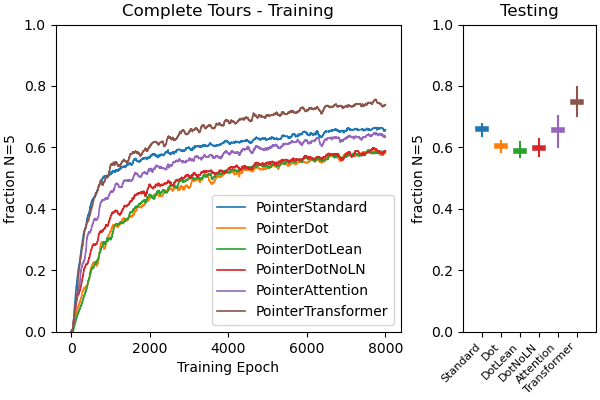
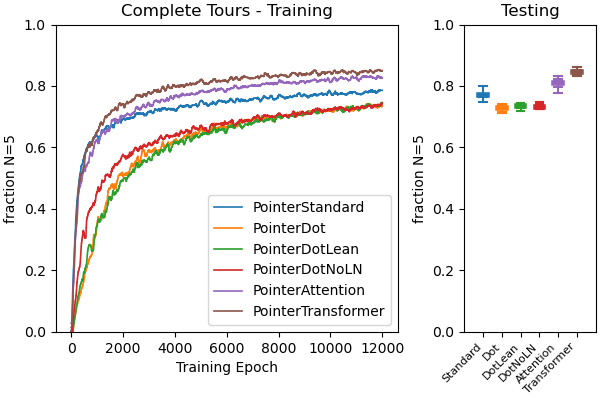
New SL data and updated plots

diff --git a/experiments/ptrArchComp_TSP_SL.py b/experiments/ptrArchComp_TSP_SL.py
@@ -230,13 +230,14 @@ def plotResults(results, args):
     for idx, name in enumerate(POINTER_METHODS):
         mnTestReward = torch.mean(results['testLoss'][:,idx], dim=0)
         ax[1].plot(get_x(idx), [mnTestReward.mean(), mnTestReward.mean()], color=cmap(idx), lw=4, label=name)
+        for mtr in mnTestReward:
+            ax[1].plot(get_x(idx), [mtr, mtr], color=cmap(idx), lw=1.5)
         ax[1].plot([idx,idx], [mnTestReward.min(), mnTestReward.max()], color=cmap(idx), lw=1.5)
     ax[1].set_xticks(range(len(POINTER_METHODS)))
     ax[1].set_xticklabels([pmethod[7:] for pmethod in POINTER_METHODS], rotation=45, ha='right', fontsize=8)
     ax[1].set_ylabel(f'Loss N={numRuns}')
     ax[1].set_title('Test Performance')
     ax[1].set_xlim(-1, len(POINTER_METHODS))
-    ax[1].set_ylim(0, 0.8)
 
     if not(args.nosave):
         plt.savefig(str(figsPath/getFileName()))
@@ -260,6 +261,8 @@ def plotResults(results, args):
     for idx, name in enumerate(POINTER_METHODS):
         mnTestComplete = torch.mean(results['testTourComplete'][:,idx], dim=0)
         ax[1].plot(get_x(idx), [mnTestComplete.mean(), mnTestComplete.mean()], color=cmap(idx), lw=4, label=name)
+        for mtc in mnTestComplete:
+            ax[1].plot(get_x(idx), [mtc, mtc], color=cmap(idx), lw=1.5)
         ax[1].plot([idx,idx], [mnTestComplete.min(), mnTestComplete.max()], color=cmap(idx), lw=1.5)
     ax[1].set_xticks(range(len(POINTER_METHODS)))
     ax[1].set_xticklabels([pmethod[7:] for pmethod in POINTER_METHODS], rotation=45, ha='right', fontsize=8)
@@ -294,6 +297,8 @@ def plotResults(results, args):
     for idx, name in enumerate(POINTER_METHODS):
         mnTestReward = torch.nanmean(results['testTourValidLength'][:,idx], dim=0)
         ax[1].plot(get_x(idx), [mnTestReward.mean(), mnTestReward.mean()], color=cmap(idx), lw=4, label=name)
+        for mtr in mnTestReward:
+            ax[1].plot(get_x(idx), [mtr, mtr], color=cmap(idx), lw=1.5)
         ax[1].plot([idx,idx], [mnTestReward.min(), mnTestReward.max()], color=cmap(idx), lw=1.5)
     ax[1].set_xticks(range(len(POINTER_METHODS)))
     ax[1].set_xticklabels([pmethod[7:] for pmethod in POINTER_METHODS], rotation=45, ha='right', fontsize=8)
@@ -307,16 +312,31 @@ def plotResults(results, args):
     
     plt.show()
 
+    
     # now plot confidence across positions
     numPos = results['testMaxScore'].size(1)
-    fig, ax = plt.subplots(1, 1, figsize=(4,4), layout='constrained')
+    fig, ax = plt.subplots(1, 2, figsize=(6,4), width_ratios=[2.6,1], layout='constrained')
     for idx, name in enumerate(POINTER_METHODS):
-        ax.plot(range(numPos), torch.mean(torch.exp(results['testMaxScore'][:,:,idx]), dim=(0,2)), color=cmap(idx), lw=1, marker='o', label=name)
-    ax.set_xlabel('Output Position')
-    ax.set_ylabel('Mean Score')
-    ax.set_title('Position-Dependent Confidence')
-    ax.set_ylim(0, 1)
-    ax.legend(loc='lower left', fontsize=8)
+        ax[0].plot(range(numPos), torch.mean(torch.exp(results['testMaxScore'][:,:,idx]), dim=(0,2)), color=cmap(idx), lw=1, marker='o', label=name)
+    ax[0].set_xlabel('Output Position')
+    ax[0].set_ylabel('Mean Score')
+    ax[0].set_title('Position-Dependent Confidence')
+    ax[0].legend(loc='best', fontsize=8)
+    ax[0].set_ylim(0.7, 1)
+    
+    xOffset = [-0.2, 0.2]
+    get_x = lambda idx: [xOffset[0]+idx, xOffset[1]+idx]
+    for idx, name in enumerate(POINTER_METHODS):
+        mnScoreByPosition = torch.mean(torch.exp(results['testMaxScore'][:,:,idx]), dim=(0,1))
+        ax[1].plot(get_x(idx), [mnScoreByPosition.mean(), mnScoreByPosition.mean()], color=cmap(idx), lw=4, label=name)
+        for msbp in mnScoreByPosition:
+            ax[1].plot(get_x(idx), [msbp, msbp], color=cmap(idx), lw=1.5)
+        ax[1].plot([idx,idx], [mnScoreByPosition.min(), mnScoreByPosition.max()], color=cmap(idx), lw=1.5)
+    ax[1].set_xticks(range(len(POINTER_METHODS)))
+    ax[1].set_xticklabels([pmethod[7:] for pmethod in POINTER_METHODS], rotation=45, ha='right', fontsize=8)
+    ax[1].set_title('Average')
+    ax[1].set_xlim(-1, len(POINTER_METHODS))
+    ax[1].set_ylim(0.7, 1)
 
     if not(args.nosave):
         plt.savefig(str(figsPath/getFileName(extra='confidence')))
